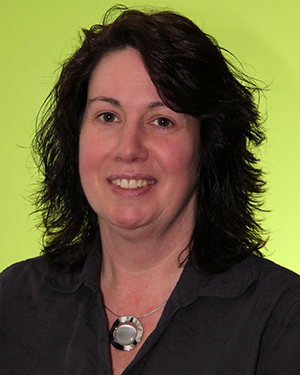
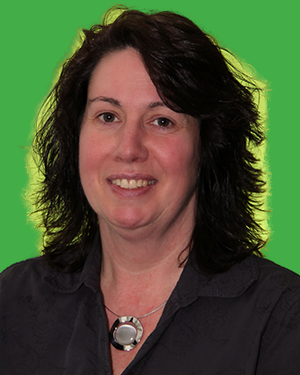
Portraetfotos des Schulleitungsteams austauschen
Alle zehn Fotos (Schulleitung, Sekretariat, Hausmeister) durch Versionen mit
einheitlichem Hintergrund im Logogruen #43AD47 ersetzt; zuvor hatten die
Bilder uneinheitliche Gelbgruen-Toene. Aufloesungen unveraendert. Die sechs
bisherigen JPGs entfallen, die Pfade in schule.ts zeigen auf die PNGs.

Changed region(s): [[0.0, 0.0, 1.0, 0.7333]]

diff --git a/src/data/schule.ts b/src/data/schule.ts
@@ -36,33 +36,33 @@ export const schulleitung: Person[] = [
     rolle: "Abteilungsleiter II",
     seit: "seit 2018, an der Schule seit 1994",
     faecher: "Bautechnik, Religion",
-    foto: "/media/team/roessler.jpg",
+    foto: "/media/team/roessler.png",
   },
   {
     name: "Roberto Weyh",
     rolle: "Abteilungsleiter IV",
     seit: "seit Februar 2018, an der Schule seit 2000",
     faecher: "Wirtschaft und Verwaltung, Informationstechnik, Spanisch",
-    foto: "/media/team/weyh.jpg",
+    foto: "/media/team/weyh.png",
   },
   {
     name: "Klaus Weger",
     rolle: "Technischer Lehrerkoordinator",
     seit: "seit 2014",
     faecher: "Holztechnik",
-    foto: "/media/team/weger.jpg",
+    foto: "/media/team/weger.png",
   },
 ]
 
 export const sekretariat: Person[] = [
   { name: "Carola Bolz", rolle: "Schulsekretariat", foto: "/media/team/bolz.png" },
-  { name: "Pia Weber", rolle: "Schulsekretariat", foto: "/media/team/weber.jpg" },
-  { name: "Elisa Köhler", rolle: "Schulsekretariat", foto: "/media/team/koehler.jpg" },
+  { name: "Pia Weber", rolle: "Schulsekretariat", foto: "/media/team/weber.png" },
+  { name: "Elisa Köhler", rolle: "Schulsekretariat", foto: "/media/team/koehler.png" },
 ]
 
 export const hausmeister: Person[] = [
-  { name: "Dirk Meise", rolle: "Hausmeister", foto: "/media/team/meise.jpg" },
-  { name: "Dirk Diehl", rolle: "Hausmeister", foto: "/media/team/diehl.jpg" },
+  { name: "Dirk Meise", rolle: "Hausmeister", foto: "/media/team/meise.png" },
+  { name: "Dirk Diehl", rolle: "Hausmeister", foto: "/media/team/diehl.png" },
 ]
 
 export const verwaltung = {
